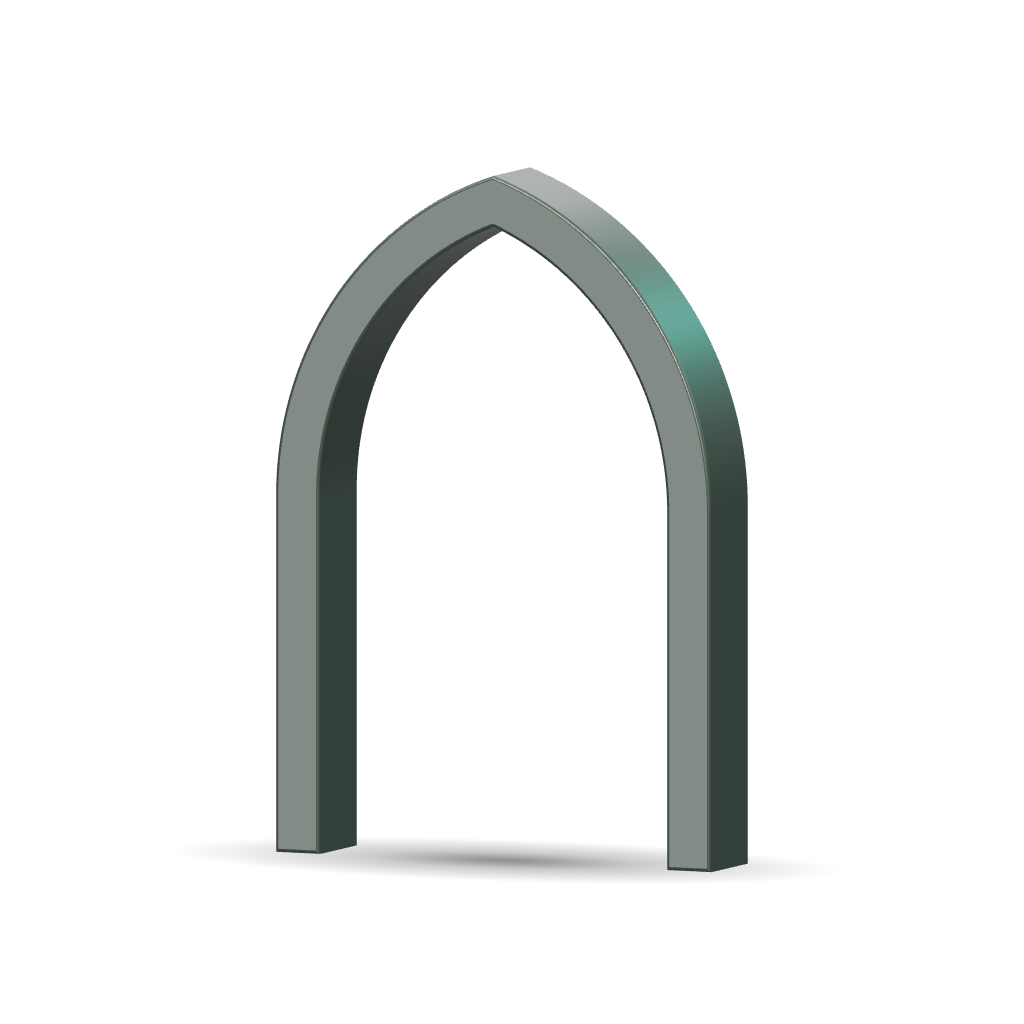
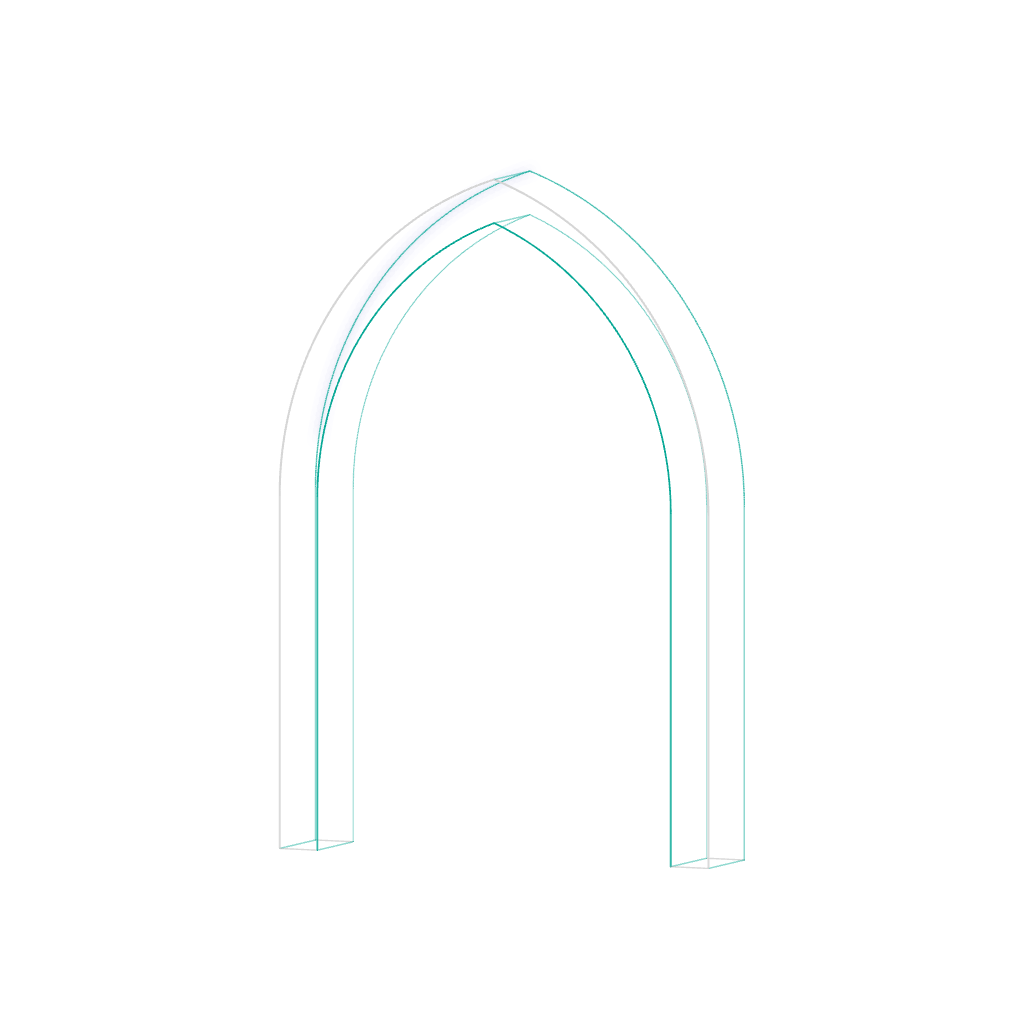
first commit

Changed region(s): [[0.25, 0.1562, 0.75, 0.875]]

diff --git a/src/lib/arch-scene.ts b/src/lib/arch-scene.ts
@@ -1,6 +1,8 @@
 import * as THREE from "three";
-import { RoomEnvironment } from "three/addons/environments/RoomEnvironment.js";
-import { ARCH, ARC_SAMPLES, circleCenter, outerRadius, innerRadius, leftPeakAngle, rightPeakAngle, innerPeakAngle, progress, smooth, easeOut, mix } from "./arch-model";
+import { Line2 } from "three/addons/lines/Line2.js";
+import { LineGeometry } from "three/addons/lines/LineGeometry.js";
+import { LineMaterial } from "three/addons/lines/LineMaterial.js";
+import { ARCH, ARC_SAMPLES, circleCenter, outerRadius, innerRadius, innerPeak, leftPeakAngle, rightPeakAngle, progress, smooth, easeOut, mix } from "./arch-model";
 
 export interface ArchScene {
   ready: Promise<unknown>;
@@ -9,6 +11,7 @@ export interface ArchScene {
   dispose: () => void;
 }
 
+/** Explicit architectural contours: no filled faces or triangulated wireframe. */
 export function createArchScene(canvas: HTMLCanvasElement, pixelRatio = Math.min(window.devicePixelRatio || 1, 2)): ArchScene {
   const context = canvas.getContext("webgl2", { alpha: true, antialias: true, premultipliedAlpha: true, powerPreference: "low-power" });
   if (!context) throw new Error("WebGL2 unavailable");
@@ -16,89 +19,87 @@ export function createArchScene(canvas: HTMLCanvasElement, pixelRatio = Math.min
   renderer.setPixelRatio(pixelRatio);
   renderer.setClearColor(0x000000, 0);
   renderer.outputColorSpace = THREE.SRGBColorSpace;
-  renderer.toneMapping = THREE.ACESFilmicToneMapping;
-  renderer.toneMappingExposure = 1.05;
 
   const scene = new THREE.Scene();
   const camera = new THREE.OrthographicCamera(-3.6, 3.6, 3.6, -3.6, .1, 50);
   camera.position.set(0, 0, 14);
-  camera.lookAt(0, 0, 0);
-
-  const environment = new RoomEnvironment();
-  const pmrem = new THREE.PMREMGenerator(renderer);
-  const environmentTarget = pmrem.fromScene(environment, .06);
-  scene.environment = environmentTarget.texture;
-  environment.dispose();
-  pmrem.dispose();
-  scene.add(new THREE.HemisphereLight(0xe8ebe9, 0x111a16, 1.2));
-  const key = new THREE.DirectionalLight(0xf5f5f2, 3.8);
-  key.position.set(-3.5, 5, 6);
-  scene.add(key);
-  const fill = new THREE.DirectionalLight(0xbec6c2, 1.0);
-  fill.position.set(4, 1, 3);
-  scene.add(fill);
-  const rim = new THREE.DirectionalLight(0x00a693, 1.1);
-  rim.position.set(3, 2, -3);
-  scene.add(rim);
-
   const assembly = new THREE.Group();
   scene.add(assembly);
-  const shape = new THREE.Shape();
-  shape.moveTo(-ARCH.halfWidth, ARCH.bottom);
-  shape.lineTo(-ARCH.halfWidth, 0);
-  shape.absarc(circleCenter, 0, outerRadius, Math.PI, leftPeakAngle, true);
-  shape.absarc(-circleCenter, 0, outerRadius, rightPeakAngle, 0, true);
-  shape.lineTo(ARCH.halfWidth, ARCH.bottom);
-  shape.lineTo(ARCH.halfWidth - ARCH.thickness, ARCH.bottom);
-  shape.lineTo(ARCH.halfWidth - ARCH.thickness, 0);
-  shape.absarc(-circleCenter, 0, innerRadius, 0, innerPeakAngle, false);
-  shape.absarc(circleCenter, 0, innerRadius, Math.PI - innerPeakAngle, Math.PI, false);
-  shape.lineTo(-ARCH.halfWidth + ARCH.thickness, ARCH.bottom);
-  shape.closePath();
+  const materials: LineMaterial[] = [];
+  const geometries: LineGeometry[] = [];
 
-  const geometry = new THREE.ExtrudeGeometry(shape, { depth: ARCH.depth, steps: 1, bevelEnabled: true, bevelThickness: ARCH.bevel, bevelSize: ARCH.bevel, bevelSegments: 5, curveSegments: 64 });
-  geometry.translate(0, 0, -ARCH.depth / 2);
-  const front = new THREE.MeshStandardMaterial({ color: 0x515754, roughness: .53, metalness: .32, envMapIntensity: .72, transparent: true, opacity: 0 });
-  const sides = new THREE.MeshStandardMaterial({ color: 0x333c37, roughness: .45, metalness: .4, envMapIntensity: .8, transparent: true, opacity: 0 });
-  const solid = new THREE.Mesh(geometry, [front, sides]);
-  assembly.add(solid);
+  function line(points: number[], color: number, width: number) {
+    const geometry = new LineGeometry().setPositions(points);
+    const material = new LineMaterial({ color, linewidth: width, transparent: true, opacity: 0, depthTest: false, depthWrite: false, toneMapped: false });
+    const object = new Line2(geometry, material);
+    object.frustumCulled = false;
+    assembly.add(object);
+    materials.push(material);
+    geometries.push(geometry);
+    return object;
+  }
 
-  const lineMaterials = [0, 1].map(() => new THREE.LineBasicMaterial({ color: 0xb8c8be, transparent: true, opacity: .65, toneMapped: false, depthTest: false }));
-  const arcArrays = [new Float32Array((ARC_SAMPLES + 1) * 3), new Float32Array((ARC_SAMPLES + 1) * 3)];
-  const arcGeometries = arcArrays.map(array => new THREE.BufferGeometry().setAttribute("position", new THREE.BufferAttribute(array, 3).setUsage(THREE.DynamicDrawUsage)));
-  const arcs = arcGeometries.map((geometry, index) => new THREE.Line(geometry, lineMaterials[index]));
-  for (const arc of arcs) { arc.frustumCulled = false; arc.renderOrder = 2; assembly.add(arc); }
+  function curve(side: number, radius: number, start: number, end: number, z: number, samples = ARC_SAMPLES) {
+    const points: number[] = [];
+    for (let i = 0; i <= samples; i++) {
+      const angle = mix(start, end, i / samples);
+      points.push((side === 0 ? circleCenter : -circleCenter) + Math.cos(angle) * radius, Math.sin(angle) * radius, z);
+    }
+    return points;
+  }
 
-  const guideMaterial = new THREE.LineBasicMaterial({ color: 0x8ba597, transparent: true, opacity: .25, toneMapped: false, depthTest: false });
-  const guideGeometry = new THREE.BufferGeometry().setFromPoints([
-    new THREE.Vector3(-3.3, 0, 0), new THREE.Vector3(3.3, 0, 0),
-    new THREE.Vector3(-circleCenter, -.1, 0), new THREE.Vector3(-circleCenter, .1, 0),
-    new THREE.Vector3(circleCenter, -.1, 0), new THREE.Vector3(circleCenter, .1, 0),
-  ]);
-  const guides = new THREE.LineSegments(guideGeometry, guideMaterial);
-  assembly.add(guides);
+  function contour(radius: number, z: number) {
+    const halfWidth = radius - circleCenter;
+    const peakAngle = Math.acos(circleCenter / radius);
+    return [
+      -halfWidth, ARCH.bottom, z,
+      ...curve(0, radius, Math.PI, Math.PI - peakAngle, z),
+      ...curve(1, radius, peakAngle, 0, z).slice(3),
+      halfWidth, ARCH.bottom, z,
+    ];
+  }
 
-  const legMaterial = new THREE.LineBasicMaterial({ color: 0xd4dfd8, transparent: true, opacity: 0, toneMapped: false, depthTest: false });
-  const legArray = new Float32Array(12);
-  const legGeometry = new THREE.BufferGeometry().setAttribute("position", new THREE.BufferAttribute(legArray, 3).setUsage(THREE.DynamicDrawUsage));
-  const legs = new THREE.LineSegments(legGeometry, legMaterial);
-  legs.frustumCulled = false;
-  legs.renderOrder = 2;
-  assembly.add(legs);
+  const frontZ = ARCH.depth / 2;
+  const rearZ = -frontZ;
+  // The two circles become the principal front curves; they never disappear.
+  const arcs = [0, 1].map(side => line(curve(side, outerRadius, 0, Math.PI * 2, frontZ), 0xd4d4d4, 1.05));
+  const constructionEchoes = [0, 1].map(side => line(curve(side, outerRadius, 0, Math.PI * 2, 0), 0x9b9b9b, .6));
+  const legs = [-1, 1].map(side => line([side * ARCH.halfWidth, 0, frontZ, side * ARCH.halfWidth, ARCH.bottom, frontZ], 0xd4d4d4, 1.05));
+  const innerFront = line(contour(innerRadius, frontZ), 0x00a693, .9);
+  const outerRear = line(contour(outerRadius, rearZ), 0x00a693, .8);
+  const innerRear = line(contour(innerRadius, rearZ), 0x00a693, .7);
 
-  const shadowCanvas = document.createElement("canvas");
-  shadowCanvas.width = 128; shadowCanvas.height = 128;
-  const brush = shadowCanvas.getContext("2d")!;
-  const gradient = brush.createRadialGradient(64, 64, 0, 64, 64, 64);
-  gradient.addColorStop(0, "rgba(0,0,0,.45)"); gradient.addColorStop(.4, "rgba(0,0,0,.2)"); gradient.addColorStop(1, "rgba(0,0,0,0)");
-  brush.fillStyle = gradient; brush.fillRect(0, 0, 128, 128);
-  const shadowTexture = new THREE.CanvasTexture(shadowCanvas);
-  const shadowMaterial = new THREE.MeshBasicMaterial({ map: shadowTexture, transparent: true, opacity: 0, depthWrite: false, toneMapped: false });
-  const shadowGeometry = new THREE.PlaneGeometry(5, 2.7);
-  const shadow = new THREE.Mesh(shadowGeometry, shadowMaterial);
-  shadow.rotation.x = -Math.PI / 2;
-  shadow.position.set(0, ARCH.bottom - .035, .1);
-  assembly.add(shadow);
+  // Six depth connections: four foot corners and the two pointed crowns.
+  const anchors = [
+    [-ARCH.halfWidth, ARCH.bottom], [ARCH.halfWidth, ARCH.bottom],
+    [-ARCH.halfWidth + ARCH.thickness, ARCH.bottom], [ARCH.halfWidth - ARCH.thickness, ARCH.bottom],
+    [0, ARCH.peak], [0, innerPeak],
+  ];
+  const connections = anchors.map(([x, y]) => line([x, y, frontZ, x, y, rearZ], 0x00a693, .75));
+  const caps = [-1, 1].flatMap(side => [frontZ, rearZ].map(z => line([
+    side * ARCH.halfWidth, ARCH.bottom, z, side * (ARCH.halfWidth - ARCH.thickness), ARCH.bottom, z,
+  ], 0xa8a8a8, .7)));
+
+  // A localized, low-opacity blue trace behind the rear crown, never a surface.
+  const haloPoints = curve(0, outerRadius, Math.PI - .14, leftPeakAngle, rearZ, 48);
+  const halos = [12, 7, 3].map(width => line(haloPoints, 0x1c39bb, width));
+  halos.forEach(halo => { halo.renderOrder = -1; });
+
+  const guides = [
+    line([-3.3, 0, 0, 3.3, 0, 0], 0x9b9b9b, .6),
+    ...[-circleCenter, circleCenter].map(x => line([x, -.1, 0, x, .1, 0], 0x9b9b9b, .6)),
+  ];
+
+  // Update the existing interleaved buffer rather than allocating GPU buffers per frame.
+  function updatePoints(object: Line2, points: number[]) {
+    const start = object.geometry.attributes.instanceStart as THREE.InterleavedBufferAttribute;
+    const end = object.geometry.attributes.instanceEnd as THREE.InterleavedBufferAttribute;
+    for (let i = 0; i < points.length / 3 - 1; i++) {
+      start.setXYZ(i, points[i * 3], points[i * 3 + 1], points[i * 3 + 2]);
+      end.setXYZ(i, points[i * 3 + 3], points[i * 3 + 4], points[i * 3 + 5]);
+    }
+    start.data.needsUpdate = true;
+  }
 
   let currentTime = 0;
   let disposed = false;
@@ -107,38 +108,30 @@ export function createArchScene(canvas: HTMLCanvasElement, pixelRatio = Math.min
     currentTime = time;
     const reveal = easeOut(progress(time, 2650, 3250));
     const settle = easeOut(progress(time, 3250, 4600));
-    assembly.rotation.set(mix(0, .075, reveal) + .03 * settle, mix(0, -.34, reveal) - .079 * settle, 0);
+    const detail = smooth(progress(time, 2710, 3300));
+    const rear = smooth(progress(time, 2820, 3500));
+    assembly.rotation.set(.075 * reveal + .03 * settle, -.34 * reveal - .079 * settle, 0);
     assembly.position.y = .08;
-    solid.scale.z = mix(.001, 1, reveal);
-    const opacity = smooth(progress(time, 2750, 3070));
-    front.opacity = opacity; sides.opacity = opacity;
-    solid.visible = opacity > 0;
-    shadowMaterial.opacity = smooth(progress(time, 2850, 3650));
-    guideMaterial.opacity = .23 * smooth(progress(time, 80, 750)) * (1 - smooth(progress(time, 2650, 3050)));
+    assembly.scale.z = mix(.001, 1, reveal);
 
     for (let side = 0; side < 2; side++) {
-      const array = arcArrays[side];
-      const sourceCenter = side === 0 ? circleCenter : -circleCenter;
-      const startAngle = side === 0 ? leftPeakAngle : 0;
-      const endAngle = mix(startAngle + Math.PI * 2, side === 0 ? Math.PI : rightPeakAngle, reveal);
-      for (let i = 0; i <= ARC_SAMPLES; i++) {
-        const u = i / ARC_SAMPLES;
-        const angle = mix(startAngle, endAngle, u);
-        array[i * 3] = sourceCenter + Math.cos(angle) * outerRadius;
-        array[i * 3 + 1] = Math.sin(angle) * outerRadius;
-        array[i * 3 + 2] = ARCH.depth / 2 * reveal + .035;
-      }
-      arcGeometries[side].attributes.position.needsUpdate = true;
-      const drawn = smooth(progress(time, side === 0 ? 60 : 390, side === 0 ? 1900 : 2200));
-      arcGeometries[side].setDrawRange(0, Math.floor(drawn * (ARC_SAMPLES + 1)));
-      lineMaterials[side].opacity = .62 * (1 - smooth(progress(time, 2750, 3100)));
-      arcs[side].visible = time < 3100;
+      const start = side === 0 ? leftPeakAngle : 0;
+      const end = mix(start + Math.PI * 2, side === 0 ? Math.PI : rightPeakAngle, reveal);
+      updatePoints(arcs[side], curve(side, outerRadius, start, end, frontZ));
+      arcs[side].geometry.instanceCount = Math.floor(ARC_SAMPLES * smooth(progress(time, side === 0 ? 60 : 390, side === 0 ? 1900 : 2200)));
+      arcs[side].material.opacity = .62 + .22 * reveal;
+      const x = (side === 0 ? -1 : 1) * ARCH.halfWidth;
+      updatePoints(legs[side], [x, 0, frontZ, x, ARCH.bottom * reveal, frontZ]);
+      legs[side].material.opacity = .84 * smooth(progress(time, 2650, 2850));
     }
-    const legDepth = ARCH.depth / 2 * reveal + .035;
-    legArray.set([-ARCH.halfWidth, 0, legDepth, -ARCH.halfWidth, ARCH.bottom * reveal, legDepth, ARCH.halfWidth, 0, legDepth, ARCH.halfWidth, ARCH.bottom * reveal, legDepth]);
-    legGeometry.attributes.position.needsUpdate = true;
-    legMaterial.opacity = .65 * smooth(progress(time, 2650, 2800)) * (1 - smooth(progress(time, 2920, 3300)));
-    rim.intensity = .65 + .45 * settle;
+    innerFront.material.opacity = .8 * detail;
+    outerRear.material.opacity = .44 * rear;
+    innerRear.material.opacity = .28 * rear;
+    connections.forEach(edge => { edge.material.opacity = .43 * rear; });
+    caps.forEach(edge => { edge.material.opacity = .44 * detail; });
+    halos.forEach((halo, index) => { halo.material.opacity = (.006 + .003 * index) * rear; });
+    constructionEchoes.forEach(echo => { echo.material.opacity = .12 * reveal * (1 - smooth(progress(time, 3250, 3650))); });
+    guides.forEach(guide => { guide.material.opacity = .23 * smooth(progress(time, 80, 750)) * (1 - smooth(progress(time, 3250, 3650))); });
     renderer.render(scene, camera);
   }
 
@@ -152,24 +145,20 @@ export function createArchScene(canvas: HTMLCanvasElement, pixelRatio = Math.min
     camera.bottom = -viewHeight / 2;
     camera.updateProjectionMatrix();
     renderer.setSize(width, height, false);
+    materials.forEach(material => material.resolution.set(width, height));
     renderAt(currentTime);
   }
 
   resize(canvas.clientWidth || 720, canvas.clientHeight || 720);
-  solid.visible = true;
-  const ready = renderer.compileAsync(scene, camera);
   return {
-    ready,
+    ready: renderer.compileAsync(scene, camera),
     renderAt,
     resize,
     dispose() {
       if (disposed) return;
       disposed = true;
-      geometry.dispose(); front.dispose(); sides.dispose();
-      for (const geometry of arcGeometries) geometry.dispose();
-      for (const material of lineMaterials) material.dispose();
-      guideGeometry.dispose(); guideMaterial.dispose(); legGeometry.dispose(); legMaterial.dispose();
-      shadowGeometry.dispose(); shadowMaterial.dispose(); shadowTexture.dispose(); environmentTarget.dispose();
+      geometries.forEach(geometry => geometry.dispose());
+      materials.forEach(material => material.dispose());
       renderer.dispose();
     },
   };

diff --git a/src/components/home.module.css b/src/components/home.module.css
@@ -2,7 +2,25 @@
 .skip { position: absolute; top: 12px; inset-inline-start: 24px; z-index: 20; padding: 12px 24px; background: var(--color-paper); color: var(--color-ink); transform: translateY(-160%); }
 .skip:focus { transform: translateY(0); }
 .darkOpening { background: var(--color-charcoal); color: var(--color-paper); }
-.header { position: relative; z-index: 10; display: flex; align-items: center; justify-content: space-between; gap: 24px; height: 110px; border-bottom: 1px solid #ffffff18; }
+.header { position: relative; z-index: 10; display: flex; align-items: center; justify-content: space-between; gap: 24px; height: 110px; }
+.header::after, .header::before { content: ''; position: absolute; inset-inline: 0; bottom: 0; height: 1px; pointer-events: none; transform-origin: left center; }
+.header::after { background: #ffffff18; }
+.header::before { background: linear-gradient(90deg, transparent calc(100% - 36px), var(--color-teal)); opacity: 0; }
+.header:dir(rtl)::after, .header:dir(rtl)::before { transform-origin: right center; }
+.header:dir(rtl)::before { background: linear-gradient(-90deg, transparent calc(100% - 36px), var(--color-teal)); }
+/* Page entry is independent of hydration and WebGL; no scripting or reduced
+   motion uses the completed divider above. */
+@media (scripting: enabled) and (prefers-reduced-motion: no-preference) {
+  .header::after { animation: headerDraw 880ms cubic-bezier(.22, 1, .36, 1) 120ms both; }
+  .header::before { animation: headerHighlight 880ms cubic-bezier(.22, 1, .36, 1) 120ms both; }
+}
+@keyframes headerDraw { from { transform: scaleX(0); } to { transform: scaleX(1); } }
+@keyframes headerHighlight {
+  0% { transform: scaleX(0); opacity: 0; }
+  18% { opacity: .85; }
+  70% { opacity: .45; }
+  100% { transform: scaleX(1); opacity: 0; }
+}
 .brand { display: flex; align-items: center; gap: 16px; flex-shrink: 0; }
 .brandMark { width: 34px; height: 43px; color: #a1b2a5; }
 .brandType { display: flex; flex-direction: column; align-items: center; gap: 7px; }

diff --git a/src/components/kinetic-arch.tsx b/src/components/kinetic-arch.tsx
@@ -136,7 +136,7 @@ export function KineticArch({ replayLabel }: { replayLabel: string }) {
     <div ref={rootRef} className={styles.architecture} data-motion-art="" data-status={mode}>
       <div className={styles.motionStage} id="arch-sculpture" aria-hidden="true">
         <img className={styles.archPoster} src={poster} width="1024" height="1024" alt="" decoding="async" />
-        <svg className={styles.archLoadingDrawing} viewBox="-3.6 -3.6 7.2 7.2" fill="none"><path d="M-2.7 .5A2.43 2.43 0 0 1 -1.2-2.25M2.4-.7A2.43 2.43 0 0 0 .8-2.3" stroke="#a7baaf" strokeWidth=".007" opacity=".45"/></svg>
+        <svg className={styles.archLoadingDrawing} viewBox="-3.6 -3.6 7.2 7.2" fill="none"><path d="M-2.7 .5A2.43 2.43 0 0 1 -1.2-2.25M2.4-.7A2.43 2.43 0 0 0 .8-2.3" stroke="#d4d4d4" strokeWidth=".007" opacity=".45"/></svg>
         <canvas ref={canvasRef} className={styles.archCanvas} />
         <noscript><div className={styles.archNoScript}><img src={poster} width="1024" height="1024" alt="" /></div></noscript>
       </div>

diff --git a/src/lib/arch-model.ts b/src/lib/arch-model.ts
@@ -1,11 +1,10 @@
-/** One geometric definition, shared by the drawing, solid and preview tools. */
+/** One geometric definition, shared by the drawing, contours and preview tools. */
 export const ARCH = {
   halfWidth: 1.65,
   peak: 2.3,
   bottom: -2.5,
   thickness: .29,
   depth: .62,
-  bevel: .025,
   viewSize: 7.2,
 } as const;
 

diff --git a/README.md b/README.md
@@ -29,9 +29,11 @@ npm start
 
 Brand colors: charcoal `#151C19`, warm off-white `#F5F4F0`, primary teal `#00A693`, with deeper teal `#007F70` for accessible text on light surfaces. The arch artwork is original vector geometry, not extracted from the moodboards.
 
-The hero takes motion inspiration from [8VC](https://www.8vc.com/). An original 4.6-second sequence starts with abstract circular drafting, pauses on the flat diagram, and resolves into a single beveled graphite arch during a quick dimensional turn. It settles completely, with no idle or pointer-driven movement. A discreet localized replay button appears after completion.
+The hero takes motion inspiration from [8VC](https://www.8vc.com/). An original 4.6-second sequence starts with abstract circular drafting, pauses on the flat diagram, and resolves into an open architectural arch during a quick dimensional turn. Grayscale front contours, `#00A693` inner/rear contours, and six depth connections describe the volume without filled surfaces. A faint, localized `#1C39BB` halo adds a small blue accent behind one rear curve. It settles completely, with no idle or pointer-driven movement. A discreet localized replay button appears after completion.
 
-The geometric definition and timing live in `src/lib/arch-model.ts`; the smooth circular profile, extruded mesh, studio lighting, and deterministic renderer live in `src/lib/arch-scene.ts`. Three.js loads dynamically only when a motion-enabled visitor sees the hero. Shaders are prepared before the opening; elapsed time pauses offscreen or in hidden tabs, and the animation frame loop stops at the final pose. Reduced-motion visitors, unavailable WebGL, and disabled JavaScript use `public/brand/arch-still.png`, rendered from the same scene. All assets are self-hosted.
+The geometric definition and timing live in `src/lib/arch-model.ts`; explicit smooth contours and the deterministic renderer live in `src/lib/arch-scene.ts`. Three.js `Line2`/`LineMaterial` maintain consistent CSS-pixel stroke widths. The drawing curves remain visible as the final front contours; unused construction lines fade after the turn. Three.js loads dynamically only when a motion-enabled visitor sees the hero. Shaders are prepared before the opening; elapsed time pauses offscreen or in hidden tabs, and the animation frame loop stops at the final pose. Reduced-motion visitors, unavailable WebGL, and disabled JavaScript use `public/brand/arch-still.png`, rendered from the same scene. All assets are self-hosted.
+
+The header divider draws from the brand side (right in Persian, left in English), after a 120ms delay over 880ms, with a brief teal leading highlight. CSS starts it independently of WebGL and hydration; navigation remains usable immediately. Arch replay does not repeat the divider. CSS scripting and reduced-motion media queries give no-JavaScript and reduced-motion visitors the completed, static line.
 
 To regenerate that tracked fallback and the ignored motion review package, use Node.js 24 and run:
 
@@ -39,7 +41,7 @@ To regenerate that tracked fallback and the ignored motion review package, use N
 node scripts/render-arch.mjs
 ```
 
-Open `design/motion/index.html` to review the isolated opening recording and four storyboard frames. The browser-generated recording includes a short hold after the 4.6-second sequence. This helper uses Node's TypeScript stripping API; the application itself retains the Node version requirement above.
+Open `design/motion/index.html` to review the isolated opening recording and storyboard frames, including the start and end of the dimensional turn. The browser-generated recording includes a short hold after the 4.6-second sequence. The renderer also checks transparent surfaces and stroke continuity at fixed times. This helper uses Node's TypeScript stripping API; the application itself retains the Node version requirement above.
 
 ## Portfolio
 
@@ -59,7 +61,7 @@ The browser check starts and stops its own production server on port 3100. Build
 npm run check:browser
 ```
 
-It checks both languages at 360, 768, and 1440 pixels, mobile navigation, keyboard access, language switching, portfolio logos and destination links, metadata, social assets, and the exclusion of the design archive. Motion checks cover completion, offscreen/hidden-tab suspension, pixel stability after settling and pointer movement, replay, reduced motion without WebGL initialization, blocked WebGL, and disabled JavaScript. When the local archive is present, it also verifies the proposal still prints to three A4 pages. Screenshots are written to ignored `test-results/`.
+It checks both languages at 360, 768, and 1440 pixels, mobile navigation, keyboard access, language switching, portfolio logos and destination links, metadata, social assets, and the exclusion of the design archive. Motion checks cover header direction/timing independently of delayed WebGL, completion, offscreen/hidden-tab suspension, pixel stability after settling and pointer movement, replay without repeating the header, reduced motion without WebGL initialization, blocked WebGL, and disabled JavaScript. When the local archive is present, it also verifies the proposal still prints to three A4 pages. Screenshots are written to ignored `test-results/`.
 
 Checks use an existing Chromium installation. Set `CHROME_PATH` to a browser executable if discovery fails, or install one with `npx playwright-core install chromium`. Set `SITE_URL` to test an already running server instead.
 
